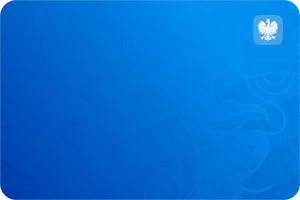
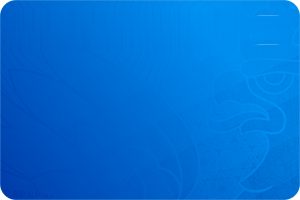
fix(mDowód): Adjust mObywatel sign styling and refresh assets
Repositioned and resized the mObywatel sign on the mDowód card for improved visual integration. Added a `focus-visible` outline for better accessibility.

Also updated cache busting versions across all main JavaScript, CSS, and image assets, and refreshed the service worker cache to ensure the latest changes are deployed.

Changed region(s): [[0.84, 0.06, 0.96, 0.24]]

diff --git a/mockup/style.css b/mockup/style.css
@@ -64,7 +64,7 @@ button:focus-visible,input:focus-visible{outline:2px solid var(--red);outline-of
 .stackwrap{position:absolute;left:0;right:0;transition:height .5s var(--ease),top .5s var(--ease);z-index:5}
 .stack{position:relative;margin:0 16px;height:100%}
 .card{position:absolute;left:0;right:0;width:100%;aspect-ratio:3/2;border-radius:18px;overflow:hidden;cursor:pointer;
-  background:#ccc center/cover no-repeat;box-shadow:0 -1px 0 rgba(255,255,255,.25) inset,0 6px 18px -6px rgba(15,25,60,.28);
+  background:#ccc center top/cover no-repeat;box-shadow:0 -1px 0 rgba(255,255,255,.25) inset,0 6px 18px -6px rgba(15,25,60,.28);
   transition:top .5s var(--ease),transform .5s var(--ease),filter .3s}
 .card:active{filter:brightness(.96)}
 .phone.chatting .card{cursor:default}
@@ -549,11 +549,12 @@ button:focus-visible,input:focus-visible{outline:2px solid var(--red);outline-of
 .person b{display:block;font-size:20px;font-weight:700;letter-spacing:-.01em}.person small{font-size:13px;color:var(--ink2)}
 
 /* znak mObywatela na mDowodzie (prawdziwy, skanowalny) */
-.face .live{position:absolute;left:89.2cqw;top:9.9cqw;width:17cqw;height:17cqw;transform:translate(-50%,-50%);pointer-events:auto;cursor:pointer;filter:drop-shadow(0 1px 3px rgba(0,0,0,.25));border-radius:50%}
+.face .live{position:absolute;left:89.2cqw;top:10cqw;width:13.5cqw;height:13.5cqw;transform:translate(-50%,-50%);pointer-events:auto;cursor:pointer;filter:drop-shadow(0 1.5px 3.5px rgba(0,0,0,.22));border-radius:50%}
+.face .live:focus-visible{outline:2px solid var(--red);outline-offset:2px}
 .face .live svg{display:block;width:100%;height:100%}
 .card .face::after,.ccard .face::after,.vcard .face::after{content:"";position:absolute;inset:0;background:linear-gradient(105deg,transparent 35%,rgba(255,255,255,.16) 48%,rgba(255,255,255,0) 60%);background-size:250% 100%;animation:sheen 6s ease-in-out infinite;pointer-events:none}
 @keyframes sheen{0%,55%{background-position:120% 0}100%{background-position:-60% 0}}
-@container (max-width:240px){.face .live{width:22cqw;height:22cqw}}
+@container (max-width:240px){.face .live{width:15cqw;height:15cqw}}
 /* sprawdzanie ekranu drugiej osoby */
 .frame.phone-frame{width:min(46%,170px);aspect-ratio:9/17.5;border-radius:30px}
 .ghostphone{position:absolute;inset:8%;border-radius:22px;border:2px solid rgba(255,255,255,.18)}

diff --git a/mockup/index.html b/mockup/index.html
@@ -14,7 +14,7 @@
 <link rel="preconnect" href="https://fonts.googleapis.com">
 <link rel="preconnect" href="https://fonts.gstatic.com" crossorigin>
 <link href="https://fonts.googleapis.com/css2?family=Inter:wght@400;500;600;700&display=swap" rel="stylesheet">
-<link rel="stylesheet" href="style.css?v=45">
+<link rel="stylesheet" href="style.css?v=46">
 </head>
 <body>
 <div class="phone" id="app">
@@ -459,7 +459,7 @@
 <script src="ikony.js?v=45"></script>
 <script src="osoby.js?v=45"></script>
 <script src="sylwetki.js?v=45"></script>
-<script src="core.js?v=45"></script>
+<script src="core.js?v=46"></script>
 <script src="accessibility.js?v=45"></script>
 <script src="variants.js?v=45"></script>
 <script src="scenarios.js?v=45"></script>

diff --git a/mockup/core.js b/mockup/core.js
@@ -1,7 +1,7 @@
 function cardImgUrl(u) {
   if (!u) return '';
   if (u.startsWith('data:')) return u;
-  return u + (u.indexOf('?') !== -1 ? '&' : '?') + 'v=41';
+  return u + (u.indexOf('?') !== -1 ? '&' : '?') + 'v=46';
 }
 const $=s=>document.querySelector(s);
 const app=$('#app'),input=$('#prompt');app.classList.add('ukryte');let msgs=$('#msgs'),inflight=0;

diff --git a/mockup/sw.js b/mockup/sw.js
@@ -5,11 +5,11 @@ const PRECACHE = [
   '/',
   '/index.html',
   '/i18n.js?v=6',
-  '/style.css?v=45',
+  '/style.css?v=46',
   '/ikony.js?v=45',
   '/osoby.js?v=45',
   '/sylwetki.js?v=45',
-  '/core.js?v=45',
+  '/core.js?v=46',
   '/accessibility.js?v=45',
   '/variants.js?v=45',
   '/scenarios.js?v=45',
